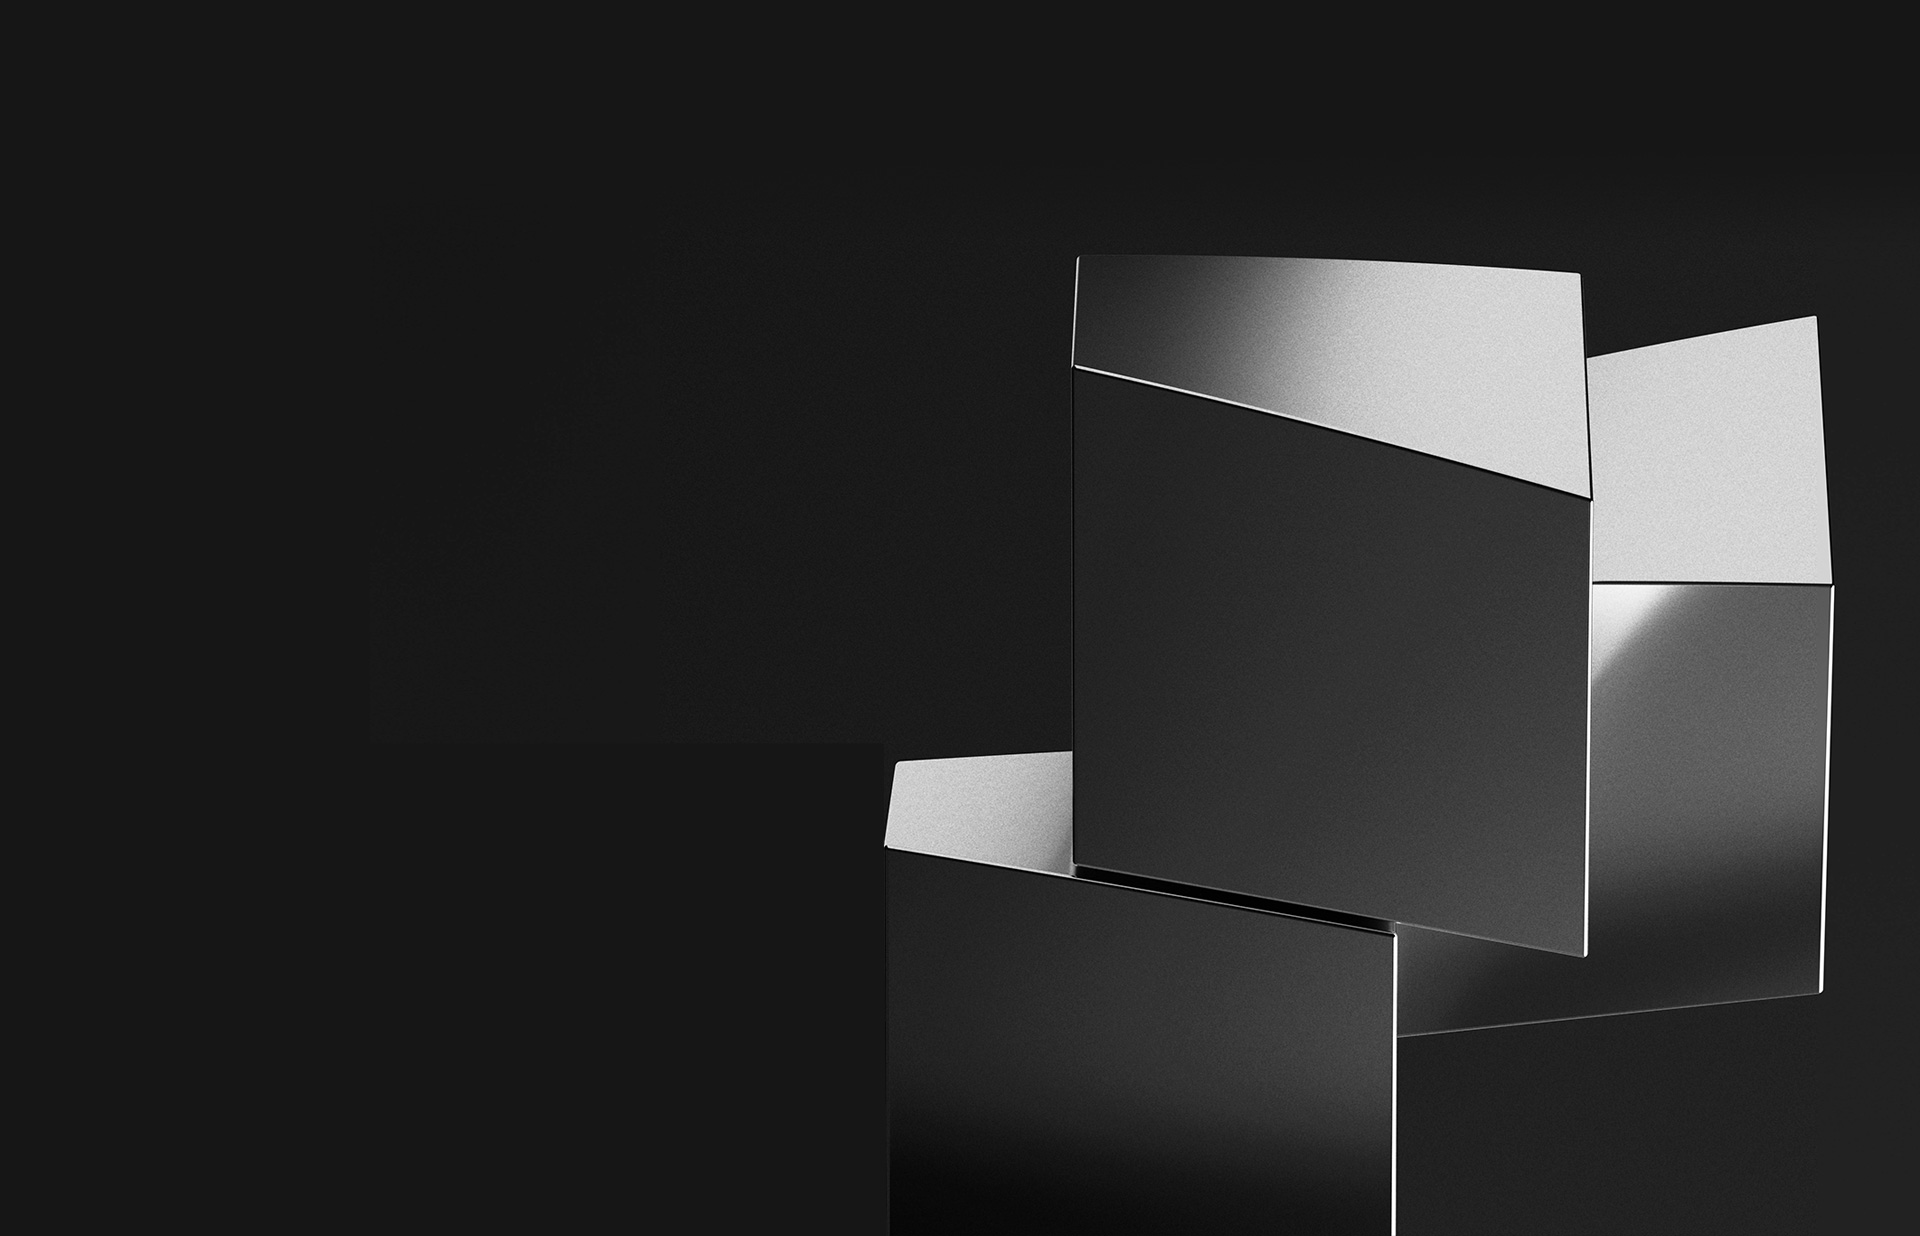
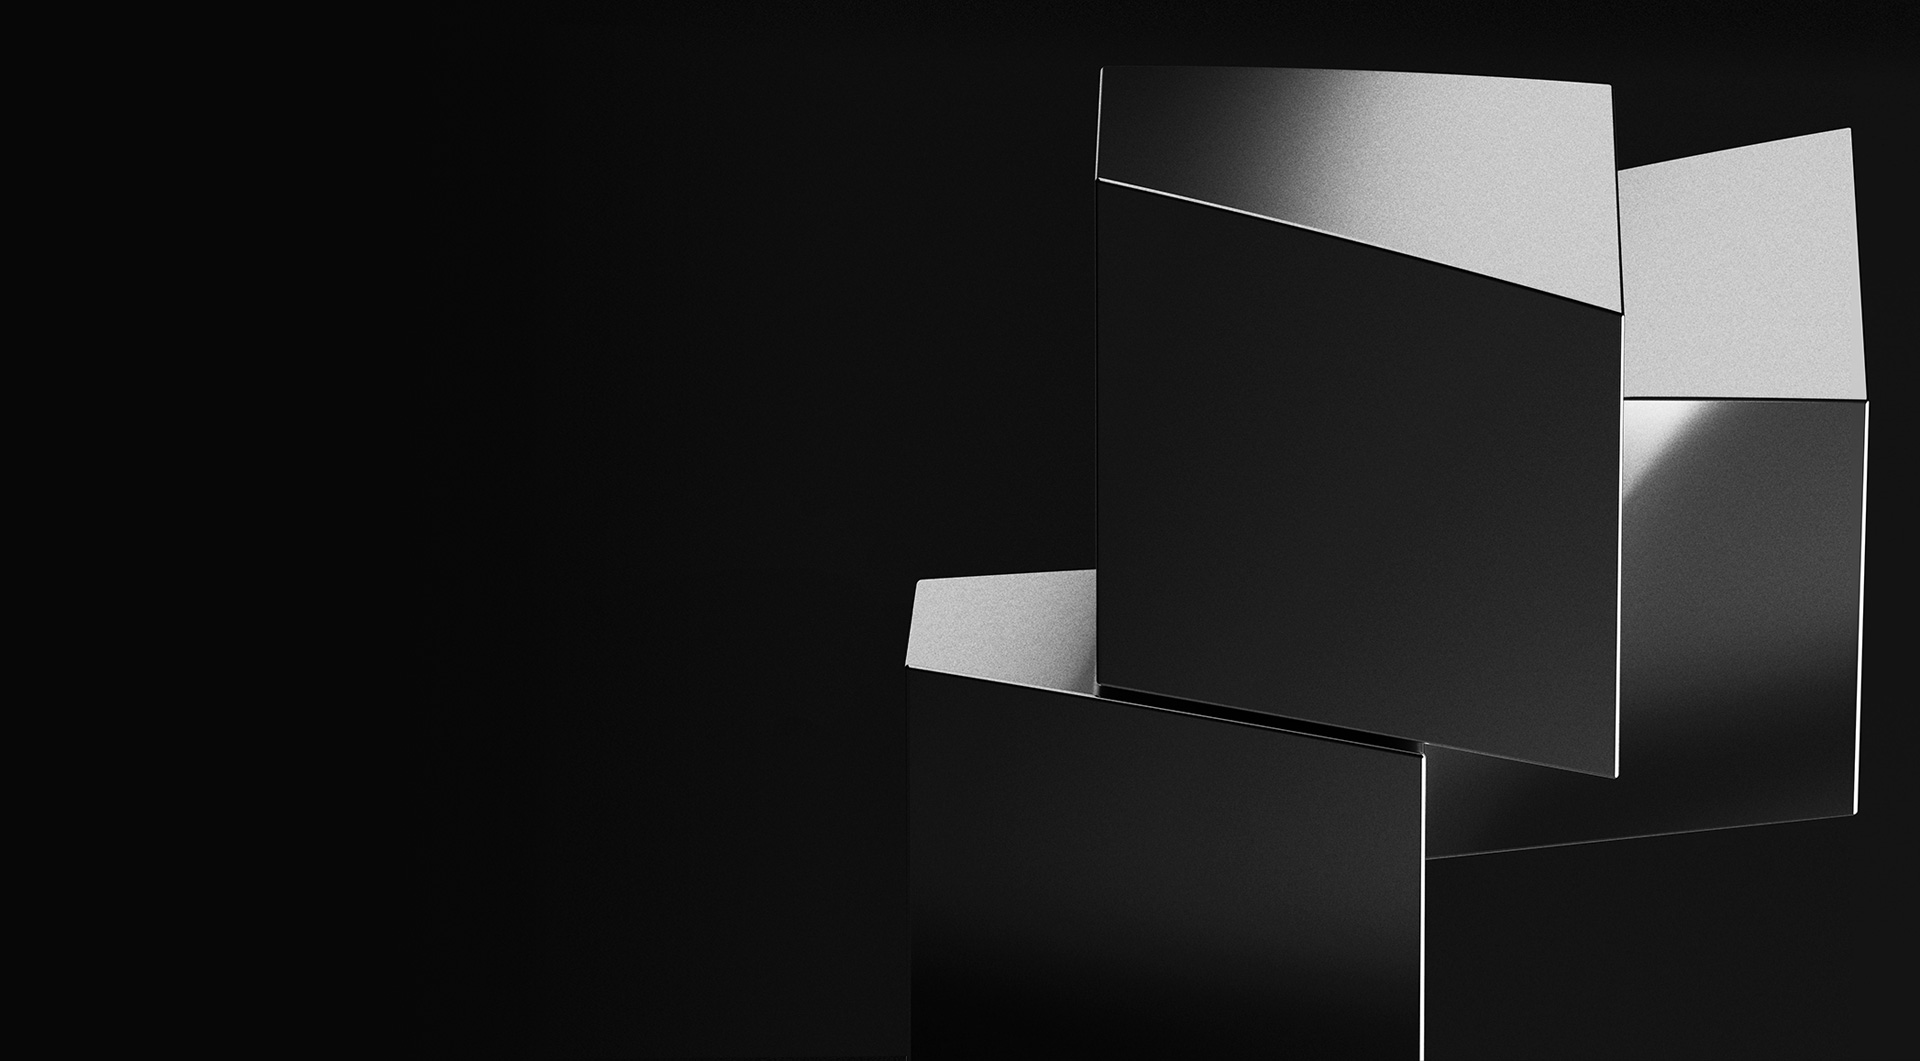
mobile repsonsive

Changed region(s): [[0.4375, 0.0622, 1.0, 1.0], [0.5625, 0.1555, 0.5938, 0.1866]]

diff --git a/css/index.css b/css/index.css
@@ -6,7 +6,7 @@ a,article,aside,audio,b,blockquote,body,canvas,caption,code,dd,del,div,dl,dt,em,
 :root {
 	--blue: #273945;
 	--white: #fff;
-	--black: #161616;
+	--black: #070707;
     --lightgrey: #f0f0f0;
 	--grey: #888;
     --darkergrey: #686868;
@@ -20,6 +20,7 @@ html {
 	font-weight: 400;
 	font-style: normal;
 	font-display: swap;
+    background: var(--black);
 }
 
 html.enter {
@@ -76,6 +77,10 @@ p {
     font-size: 24px;
     line-height: 30px;
     margin-bottom: 25px;
+}
+
+.mb0 {
+    margin-bottom: 0;
 }
 
 a {
@@ -211,49 +216,25 @@ a {
     border: 1px solid white;
 }
 
-header {
-    text-align: center;
-    padding: 15px 50px;
-    background: var(--black);
-}
-
-header nav {
-    display: flex;
-    align-items: center;
-    font-size: 15px;
-}
-
-header img {
-    position: relative;
-    width: 35px;
-    height: 35px;
-    vertical-align: middle;
-    margin-right: 25px;
-}
-
-header {
-    display: flex;
-    justify-content: space-between;
-}
-
-header a {
-    text-decoration: none;
-    display: inline-block;
-    padding: 15px;
-}
-
 /* main */
 
 main {
     padding: 0 50px;
-    min-height: 80vh;
+    min-height: 85vh;
     text-align: left;
     display: flex;
     flex-direction: column;
     justify-content: center;
-    background: url(../img/bg.jpg) no-repeat center center;
+    background: var(--black) url(../img/bg.jpg) no-repeat top center;
     background-size: cover;
     color: white
+}
+
+main .h5 img {
+    width: 25px;
+    height: 25px;
+    margin-right: 10px;
+    top: 8px;
 }
 
 main h1 {
@@ -430,6 +411,7 @@ main p {
 
 .mechanics {
     padding: 75px 50px;
+    background: white;
 }
 
 .mechanics .grid {
@@ -462,6 +444,7 @@ main p {
 
 .footer {
     padding: 75px 50px;
+    background: var(--lightgrey);
 }
 
 .footer p, .footer li {
@@ -480,30 +463,104 @@ main p {
     list-style-type: disc;
 }
 
-@media (max-width: 1000px) {
-    h2, .h2 {
-        font-size: 32px;
-        margin-bottom: 25px;
+@media (max-width: 1250px) {
+    #modal .container {
+        padding: 25px;
+        margin: 10px;
     }
-    .box p, .box p {
-        font-size: 18px;
-        line-height: 26px;
+    #modal .h3 {
+        font-size: 24px;
+        line-height: 32px;
     }
-    header {
-        margin: 0 15px;
-    }
-    header img {
-        margin-right: 15px;
-    }
-    nav a {
-        display: none;
+    main {
+        background-position: 50px top;
     }
     main h1 {
-        font-size: 48px;
-        line-height: 50px;
+        max-width: 800px;
+        font-size: 54px;
+        line-height: 60px;
     }
     main p {
-        font-size: 17px;
-        line-height: 24px;;
+        font-size: 24px;
+        line-height: 30px;
+        text-wrap: balance;
+    }
+    h2 {
+        font-size: 34px;
+        line-height: 40px;
+    }
+    .different > div:last-child > div, .mechanics .grid > div {
+        padding: 35px 25px;
+        font-size: 24px;
+        line-height: 30px;
+    }
+}
+
+@media (max-width: 500px) {
+    .legal ul {
+        margin-right: 10px;
+    }
+    h2, .h2 {
+        font-size: 34px;
+        line-height: 40px;
+    }
+    .btn {
+        font-size: 18px;
+    }
+    p {
+        font-size: 18px;
+        line-height: 24px;
+    }
+    main {
+        padding: 0 25px;
+        min-height: 90vh;
+    }
+    main h1 {
+        font-size: 36px;
+        line-height: 40px;
+    }
+    main p {
+        font-size: 18px;
+        line-height: 24px;
+    }
+    main {
+        background-position: -30px bottom;
+        background-size: 130% auto;
+    }
+    .partners {
+        grid-template-columns: 1fr;
+    }
+    .partners > div:first-child {
+        padding: 25px 25px 0;
+    }
+    .partners > div:last-child {
+        padding: 25px;
+    }
+    .partners .grid {
+        grid-template-columns: 1fr;
+    }
+    .different {
+        padding: 50px 25px;
+    }
+    .different > div:first-child {
+        flex-direction: column;
+        gap: 25px;
+    }
+    .different > div:last-child {
+        grid-template-columns: 1fr;
+    }
+    .quote {
+        background-position: center center;
+    }
+    .quote > div {
+        font-size: 21px;
+        line-height: 28px;
+    }
+    .mechanics {
+        padding: 50px 25px;
+    }
+    .mechanics .grid {
+        grid-template-columns: 1fr;
+        gap: 25px;
     }
 }

diff --git a/index.html b/index.html
@@ -18,7 +18,8 @@
 
     <div id="modal">
         <div class="container">
-            <div class="h5">LEGAL DISCLAIMER | MINOTAUR FUND II</div>
+            <div class="h5 mb0">MINOTAUR FUND II</div>
+            <div class="h5">LEGAL DISCLAIMER</div>
 
             <div class="legal">
                    
@@ -79,20 +80,9 @@
         
     </div>
 
-    <header>
-        <div>
-            <nav>
-                <img src="img/minotaur-logo.png" alt="Minotaur Crypto Fund" />
-            </nav>
-        </div>
-        <div>
-            <!-- <a class="btn" href="#contact">Contact</a> -->
-        </div> 
-    </header>
-
     <main>
-        <div class="h5">Minotaur Fund</div>
-        <h1 class="sec-hide">Professional &amp; responsible crypto asset investment</h1>
+        <div class="h5"><img src="img/minotaur-logo.png" alt="Minotaur Crypto Fund" /> Minotaur Fund</div>
+        <h1>Professional &amp; responsible crypto asset investment</h1>
         <p>We are a 503b &amp; 504c SEC-registered fund custodianed by on-shore American MBAs using American Banks and well-known third party CPAs &amp; attorneys.</p>
     
         <p><a href="#more" class="btn">Learn more &#8600;</a></p>
